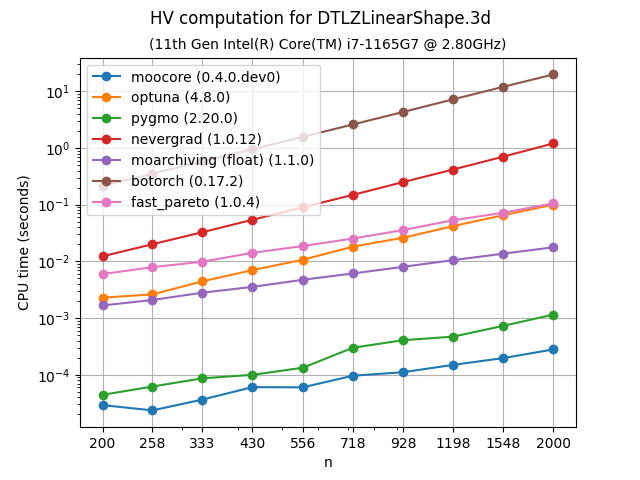
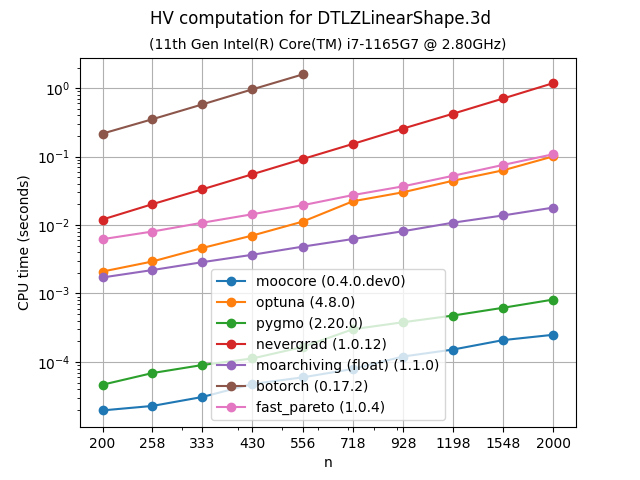
python/ Benchmark hypervolume on concave-cliff datasets.
* benchmarks/bench_hv.py: Add concave-cliff datasets.
 * doc/source/benchmarks.inc.rst: Update description and plots.
 * doc/source/_static/bench/hv_bench-DTLZLinearShape*.png: Regenerate.
 * doc/source/_static/bench/hv_bench-concave-cliff-*.png: New.

diff --git a/python/benchmarks/bench_hv.py b/python/benchmarks/bench_hv.py
@@ -47,19 +47,42 @@ files = {
         "file": path_to_data + "DTLZLinearShape.3d.front.1000pts.10",
         "range": (200, 2000, 10),
     },
+    "concave-cliff-3d": {
+        "generate": (2000, 3, "concave-cliff", 42),
+        "range": (200, 2000, 10),
+    },
     "DTLZLinearShape.4d": {
         "file": path_to_data + "DTLZLinearShape.4d.front.1000pts.10",
+        "range": (100, 1200, 10),
+    },
+    "concave-cliff-4d": {
+        "generate": (1200, 4, "concave-cliff", 42),
         "range": (100, 1200, 10),
     },
     "DTLZLinearShape.5d": {
         "file": path_to_data + "DTLZLinearShape.5d.front.500pts.10",
         "range": (10, 600, 10),
     },
+    "concave-cliff-5d": {
+        "generate": (600, 5, "concave-cliff", 42),
+        "range": (10, 600, 10),
+    },
     "DTLZLinearShape.6d": {
         "file": path_to_data + "DTLZLinearShape.6d.front.700pts.10.xz",
-        "range": (10, 300, 10),
+        "range": (10, 500, 10),
+    },
+    "concave-cliff-6d": {
+        "generate": (500, 6, "concave-cliff", 42),
+        "range": (10, 500, 10),
     },
 }
+
+
+def get_dataset(name):
+    if "generate" in files[name]:
+        n, d, method, seed = files[name]["generate"]
+        return moocore.generate_ndset(n, d, method=method, seed=seed)
+    return read_datasets_and_filter_dominated(files[name]["file"])
 
 
 title = "HV computation"
@@ -68,7 +91,7 @@ file_prefix = "hv"
 print(f"# Running benchmark: {title}")
 names = files.keys()
 for name in names:
-    x = read_datasets_and_filter_dominated(files[name]["file"])
+    x = get_dataset(name)
     dim = x.shape[1]
     ref = np.ones(dim)
     n = get_geomrange(len(x), *files[name]["range"])
@@ -112,6 +135,7 @@ for name in names:
         #     zz = tf.convert_to_tensor(z)
         bench=benchmarks,
         check=check_float_values,
+        max_time=1,
     )
 
     bench(lambda n: x[:n, :])

diff --git a/python/doc/source/benchmarks.inc.rst b/python/doc/source/benchmarks.inc.rst
@@ -154,14 +154,27 @@ Exact computation of hypervolume
 
 The following plots compare the speed of computing the :ref:`hypervolume indicator <hypervolume_metric>` in 3D, 4D, 5D and 6D. As the plots show, `moocore`_ is 100 times faster than the other packages, except `pygmo_`, and 1000 times faster than `BoTorch`_ and, by extension, `Xopt`_ and `BoFire`_.
 
-For 3D, `Optuna`_ uses a :math:`O(n^2)` algorithm, while `moocore`_ uses the best-known :math:`O(n\log n)` one, so the gap between the two will get significantly larger with a larger number of points than those tested here. `moarchiving`_ uses the same algorithms as `moocore`_ for 3D and 4D, but a pure Python implementation, so it is still 10-100 times slower than `moocore`_'s C implementation. `pygmo`_ uses a slower algorithm than `moocore`_ for 4D.  `BoTorch`_ and `fast-pareto`_ are not included for more than 3 objectives because **they are tens of thousands of times slower** than `moocore`_.
-
 Recent versions of `DESDEO`_, `DEAP`_ (≥1.4.4), `pymoo`_ (≥0.6.1.6) and `jMetalPy`_ (≥1.9.0) already use `moocore`_ for hypervolume computation.
 The implementation in `patatune`_ appears to be wrong (https://github.com/cms-patatrack/patatune/issues/52).
 
-|hv_bench-DTLZLinearShape-3d| |hv_bench-DTLZLinearShape-4d|
+For 3D, `Optuna`_ uses a :math:`O(n^2)` algorithm, while `moocore`_ uses the
+best-known :math:`O(n\log n)` one, so the gap between the two will get
+significantly larger with a larger number of points than those tested here.
+`moarchiving`_ uses the same algorithms as `moocore`_ for 3D and 4D, but a pure
+Python implementation, so it is still 10-100 times slower than `moocore`_'s C
+implementation.  `pygmo`_ uses a C++ implementation and a different algorithm.
+It becomes faster than `moocore`_ for dimensions larger than 5D.  `BoTorch`_
+and `fast-pareto`_ are not included for more than 3 objectives because **they
+are tens of thousands of times slower** than `moocore`_.
 
-|hv_bench-DTLZLinearShape-5d| |hv_bench-DTLZLinearShape-6d|
+
+|hv_bench-DTLZLinearShape-3d| |hv_bench-concave-cliff-3d|
+
+|hv_bench-DTLZLinearShape-4d| |hv_bench-concave-cliff-4d|
+
+|hv_bench-DTLZLinearShape-5d| |hv_bench-concave-cliff-5d|
+
+|hv_bench-DTLZLinearShape-6d| |hv_bench-concave-cliff-6d|
 
 .. |hv_bench-DTLZLinearShape-3d| image:: _static/bench/hv_bench-DTLZLinearShape.3d-time.png
    :width: 49%
@@ -173,6 +186,18 @@ The implementation in `patatune`_ appears to be wrong (https://github.com/cms-pa
    :width: 49%
 
 .. |hv_bench-DTLZLinearShape-6d| image:: _static/bench/hv_bench-DTLZLinearShape.6d-time.png
+   :width: 49%
+
+.. |hv_bench-concave-cliff-3d| image:: _static/bench/hv_bench-concave-cliff-3d-time.png
+   :width: 49%
+
+.. |hv_bench-concave-cliff-4d| image:: _static/bench/hv_bench-concave-cliff-4d-time.png
+   :width: 49%
+
+.. |hv_bench-concave-cliff-5d| image:: _static/bench/hv_bench-concave-cliff-5d-time.png
+   :width: 49%
+
+.. |hv_bench-concave-cliff-6d| image:: _static/bench/hv_bench-concave-cliff-6d-time.png
    :width: 49%
 
 .. _bench-hvapprox:
